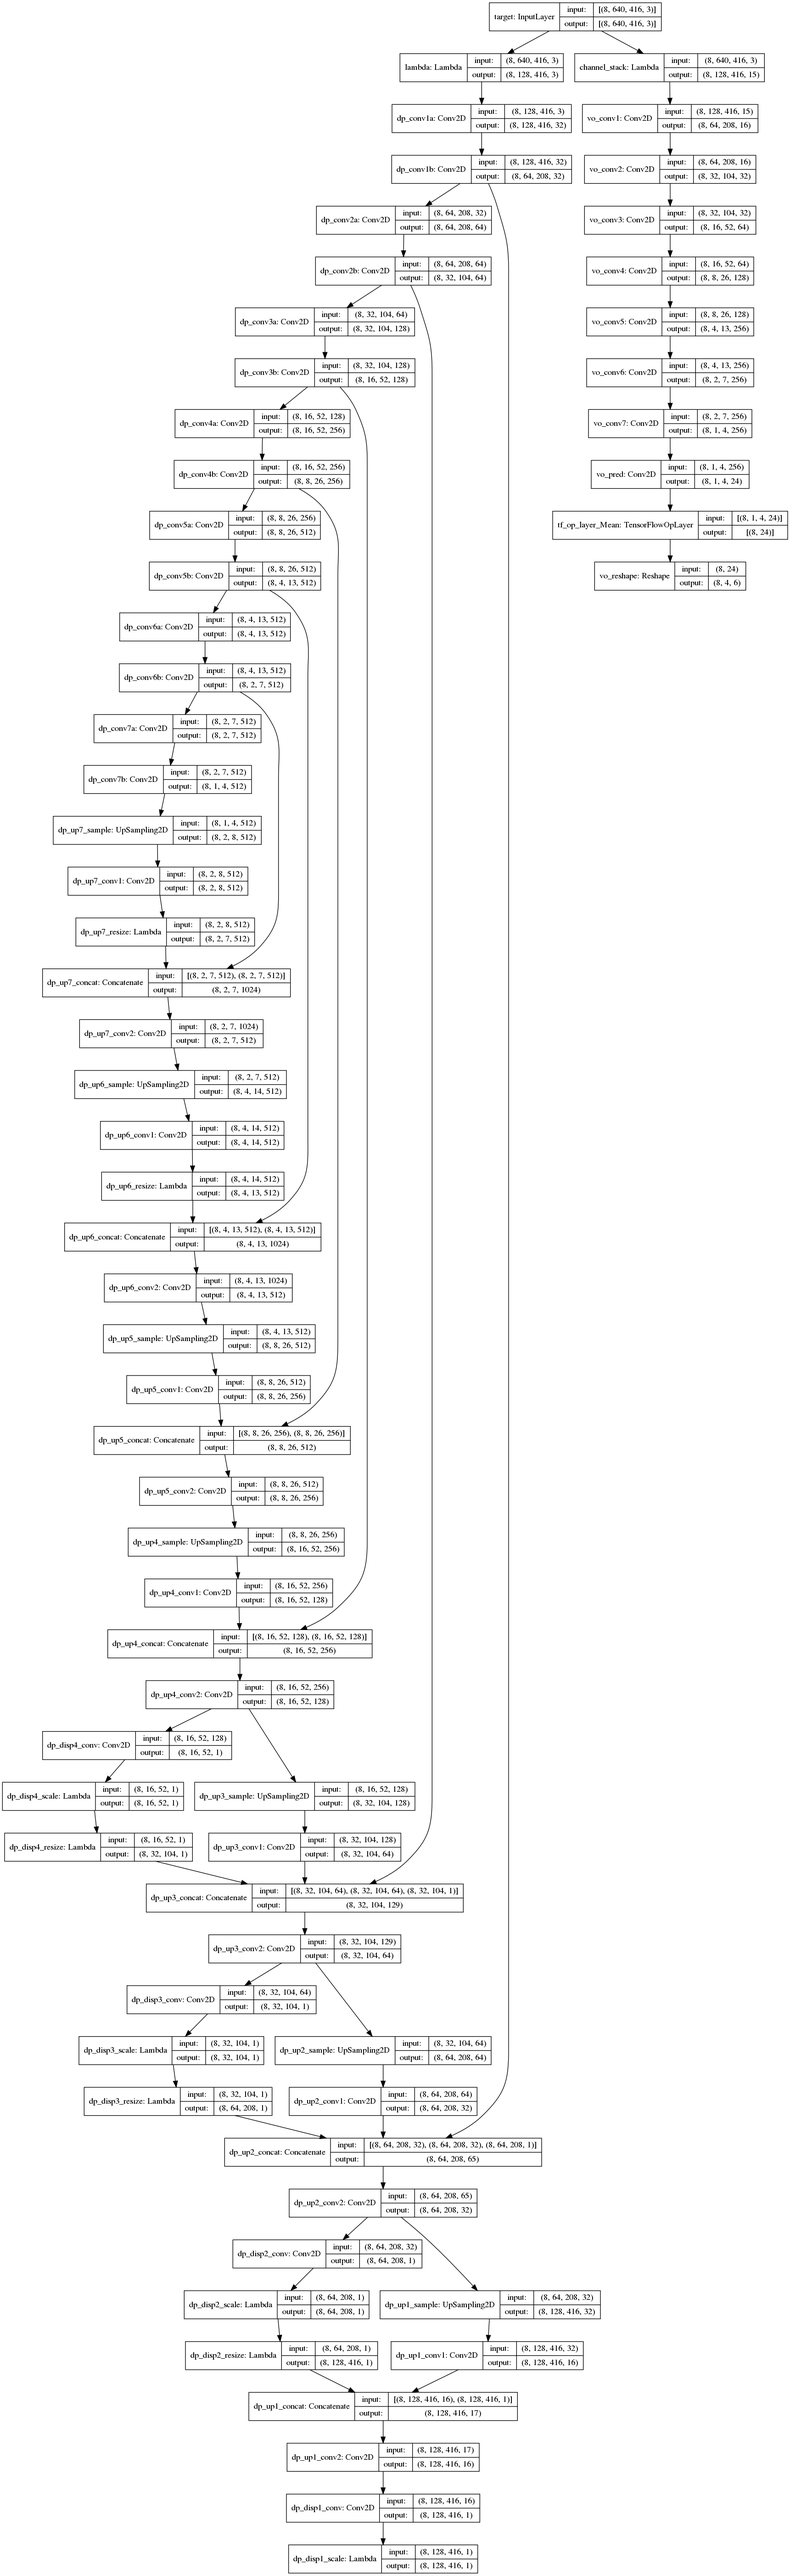
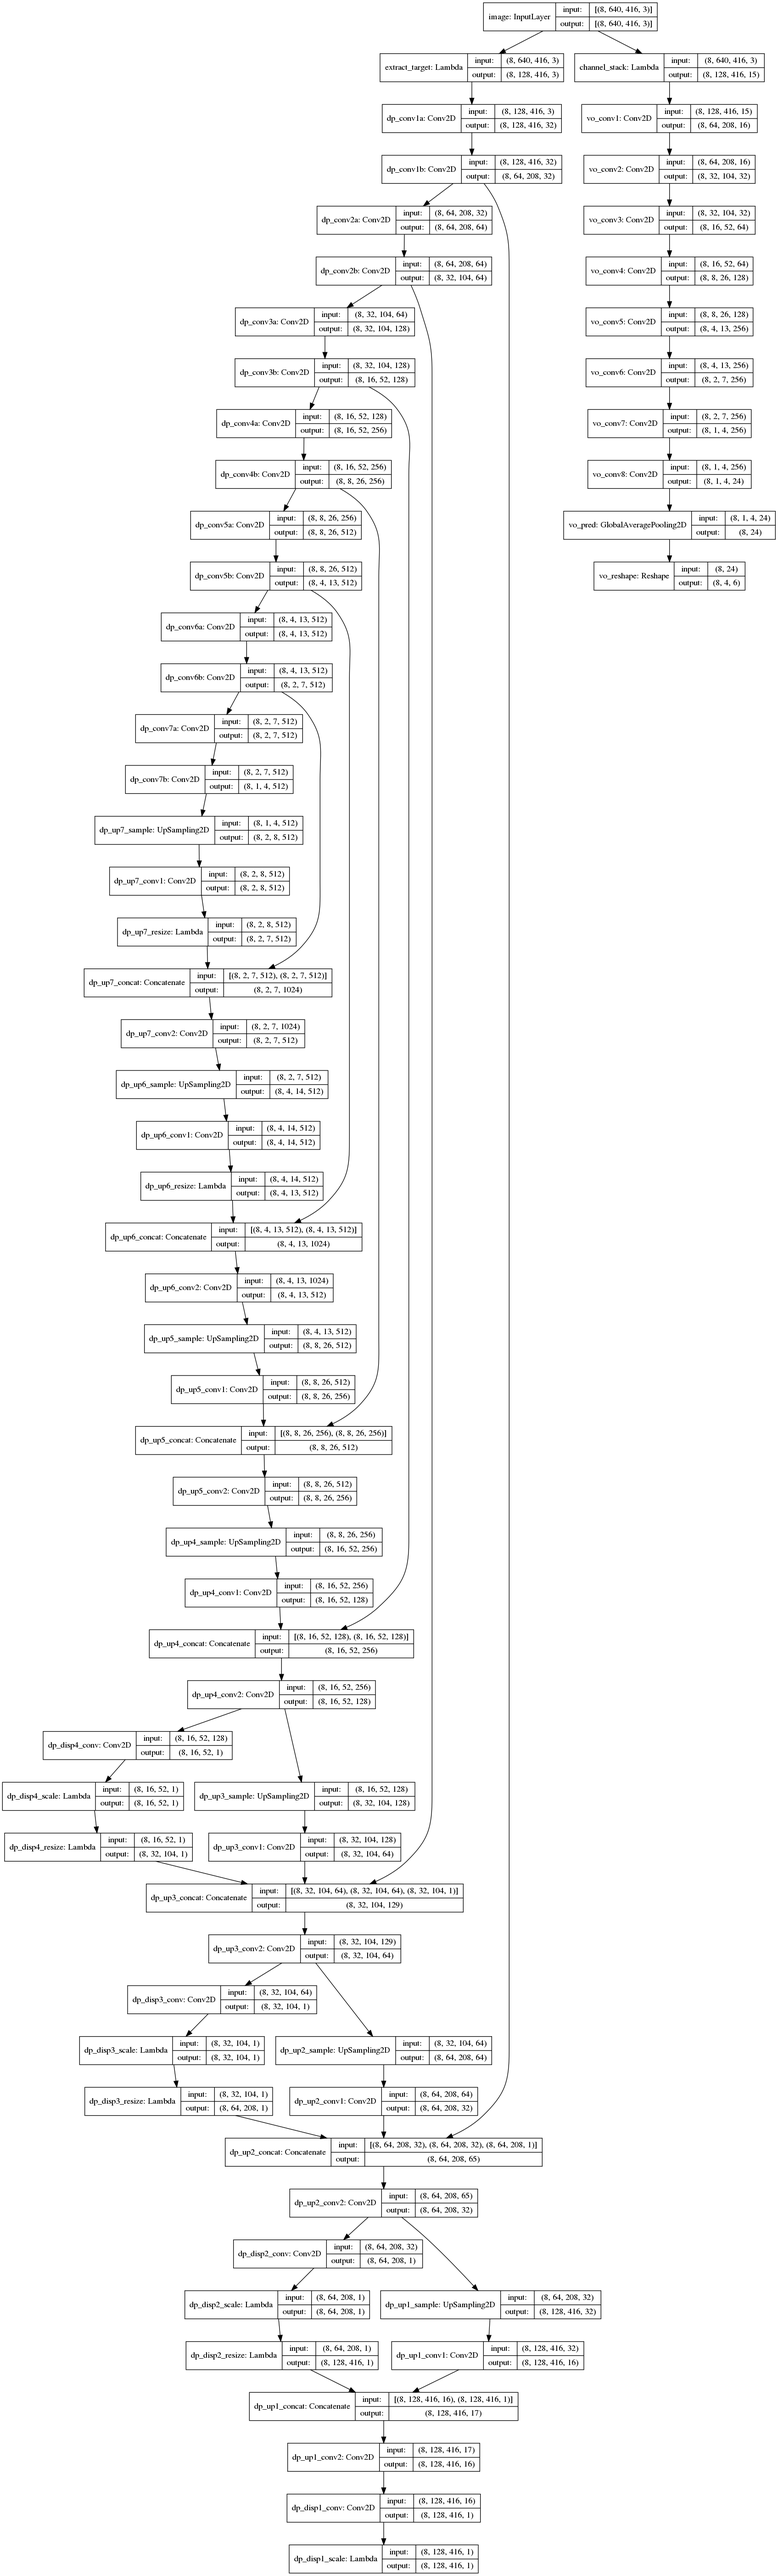
read write model weights

diff --git a/model/model_main.py b/model/model_main.py
@@ -30,28 +30,18 @@ class LM:
 
 
 def train(train_dirname, val_dirname, src_model, dst_model):
-    gpus = tf.config.experimental.list_physical_devices('GPU')
-    if gpus:
-        try:
-            # Currently, memory growth needs to be the same across GPUs
-            for gpu in gpus:
-                tf.config.experimental.set_memory_growth(gpu, True)
-            logical_gpus = tf.config.experimental.list_logical_devices('GPU')
-            print(len(gpus), "Physical GPUs,", len(logical_gpus), "Logical GPUs")
-        except RuntimeError as e:
-            # Memory growth must be set before GPUs have been initialized
-            print(e)
+    set_gpu_config()
 
-    stacked_image_shape = (opts.IM_HEIGHT*opts.SNIPPET_LEN, opts.IM_WIDTH, 3)
-    instrinsic_shape = (3, 3)
-    depth_shape = (opts.IM_HEIGHT, opts.IM_WIDTH, 1)
-    model_pred, model_train = create_models(stacked_image_shape, instrinsic_shape, depth_shape)
+    # model_train = None
+    # if model_train is None:
+    model_pred, model_train = create_models()
 
     if src_model:
         src_model_path = op.join(opts.DATAPATH_CKP, src_model)
         if op.isfile(src_model_path):
-            print("load weights", src_model_path)
+            print("===== load model", src_model_path)
             model_train.load_weights(src_model_path)
+            # model_train = tf.keras.models.load_model()
 
     optimizer = tf.keras.optimizers.Adam(learning_rate=0.0002)
     losses = {"loss_out": LM.loss_for_loss, "metric_out": LM.loss_for_metric}
@@ -68,13 +58,15 @@ def train(train_dirname, val_dirname, src_model, dst_model):
     val_steps = np.clip(count_steps(train_dirname)/2, 0, 100).astype(np.int32)
 
     history = model_train.fit(dataset_train, epochs=opts.EPOCHS, callbacks=callbacks,
-                              validation_data=dataset_val, steps_per_epoch=20,
-                              validation_steps=val_steps, validation_freq=2)
+                              validation_data=dataset_val, steps_per_epoch=10,
+                              validation_steps=val_steps)
+
     if dst_model:
         dst_model_path = op.join(opts.DATAPATH_CKP, dst_model)
         os.makedirs(op.dirname(dst_model_path), exist_ok=True)
         model_train.save_weights(dst_model_path)
 
+    print("history", history.history.keys())
     # histfile = op.join(model_path, "history.txt")
     # histdata = np.array([history.history["loss"], history.history["acc"],
     #                      history.history["val_loss"], history.history["val_acc"]])
@@ -82,23 +74,38 @@ def train(train_dirname, val_dirname, src_model, dst_model):
     # print(f"[history]", history)
 
 
+def set_gpu_config():
+    gpus = tf.config.experimental.list_physical_devices('GPU')
+    if gpus:
+        try:
+            # Currently, memory growth needs to be the same across GPUs
+            for gpu in gpus:
+                tf.config.experimental.set_memory_growth(gpu, True)
+            logical_gpus = tf.config.experimental.list_logical_devices('GPU')
+            print(len(gpus), "Physical GPUs,", len(logical_gpus), "Logical GPUs")
+        except RuntimeError as e:
+            # Memory growth must be set before GPUs have been initialized
+            print(e)
+
+
 def get_callbacks(model_dir):
     if model_dir is None:
         nowtime = datetime.datetime.now()
         nowtime = nowtime.strftime("%m%d_%H%M%S")
-        model_path = op.join(opts.DATAPATH_CKP, nowtime, "model-{epoch:02d}-{val_loss:.2f}.hdf5")
+        model_path = op.join(opts.DATAPATH_CKP, nowtime, "model-{epoch:02d}-{val_loss:.2f}.h5")
         log_dir = op.join(opts.DATAPATH_LOG, nowtime)
     else:
-        model_path = op.join(opts.DATAPATH_CKP, model_dir, "model-{epoch:02d}-{val_loss:.2f}.hdf5")
+        model_path = op.join(opts.DATAPATH_CKP, model_dir, "model-{epoch:02d}-{val_loss:.2f}.h5")
         log_dir = op.join(opts.DATAPATH_LOG, model_dir)
 
     callbacks = [
-        # tf.keras.callbacks.ModelCheckpoint(
-        #     filepath=model_path,
-        #     monitor="val_loss",
-        #     save_best_only=True,
-        #     save_freq="epoch"
-        # ),
+        tf.keras.callbacks.ModelCheckpoint(
+            filepath=model_path,
+            monitor="val_loss",
+            save_best_only=True,
+            save_freq="epoch",
+            save_weights_only=True
+        ),
         tf.keras.callbacks.TensorBoard(
             log_dir=log_dir
         ),
@@ -124,4 +131,4 @@ def evaluate():
 
 
 if __name__ == "__main__":
-    train("kitti_raw_train", "kitti_raw_test", "vode_model/weights1.h5", "vode_model/weights1.h5")
+    train("kitti_raw_train", "kitti_raw_test", "vode_model/model1.h5", "vode_model/model1.h5")

diff --git a/model/model_builder.py b/model/model_builder.py
@@ -10,10 +10,14 @@ from model.synthesize_batch import synthesize_batch_multi_scale
 import model.loss_and_metric as lm
 
 
-def create_models(image_shape, intrin_shape, depth_shape):
+def create_models():
+    image_shape = (opts.IM_HEIGHT * opts.SNIPPET_LEN, opts.IM_WIDTH, 3)
+    intrin_shape = (3, 3)
+    depth_shape = (opts.IM_HEIGHT, opts.IM_WIDTH, 1)
+
     # prepare input tensors
     stacked_image = layers.Input(shape=image_shape, batch_size=opts.BATCH_SIZE, name="image")
-    target_image = layers.Lambda(lambda image: extract_target(image))(stacked_image)
+    target_image = layers.Lambda(lambda image: extract_target(image), name="extract_target")(stacked_image)
     intrinsic = layers.Input(shape=intrin_shape, batch_size=opts.BATCH_SIZE, name="intrinsic")
     if depth_shape is None:
         depth_gt = None
@@ -68,7 +72,7 @@ def create_train_model(model_pred, target_image, intrinsic, depth_gt):
     stacked_image = model_pred.input["image"]
     pred_disp_ms = model_pred.output["disp_ms"]
     pred_pose = model_pred.output["pose"]
-    pred_depth_ms = [1./disp for disp in pred_disp_ms]
+    pred_depth_ms = disp_to_depth(pred_disp_ms)
     target_ms = multi_scale_like(target_image, pred_disp_ms)
 
     synth_target_ms = synthesize_batch_multi_scale(stacked_image, intrinsic,
@@ -88,6 +92,14 @@ def create_train_model(model_pred, target_image, intrinsic, depth_gt):
     return model_train
 
 
+def disp_to_depth(disp_ms):
+    target_ms = []
+    for i, disp in enumerate(disp_ms):
+        target = layers.Lambda(lambda dis: 1./dis, name=f"todepth_{i}")(disp)
+        target_ms.append(target)
+    return target_ms
+
+
 def multi_scale_like(image, disp_ms):
     """
     :param image: [batch, height, width, 3]
@@ -95,9 +107,10 @@ def multi_scale_like(image, disp_ms):
     :return: image_ms: list of [batch, height/scale, width/scale, 3]
     """
     image_ms = []
-    for disp in disp_ms:
+    for i, disp in enumerate(disp_ms):
         batch, height_sc, width_sc, _ = disp.get_shape().as_list()
-        image_sc = tf.image.resize(image, size=(height_sc, width_sc), method="bilinear")
+        image_sc = layers.Lambda(lambda img: tf.image.resize(img, size=(height_sc, width_sc), method="bilinear"),
+                                 name=f"target_resize_{i}")(image)
         image_ms.append(image_sc)
     return image_ms
 
@@ -196,8 +209,8 @@ def build_visual_odom_layers(stacked_image):
     conv7 = convolution(conv6, 256, 3, 2, "vo_conv7")
 
     poses = tf.keras.layers.Conv2D(num_sources*6, 1, strides=1, padding="same",
-                                   activation=None, name="vo_pred")(conv7)
-    poses = tf.keras.backend.mean(poses, axis=(1, 2))
+                                   activation=None, name="vo_conv8")(conv7)
+    poses = tf.keras.layers.GlobalAveragePooling2D("channels_last", name="vo_pred")(poses)
     poses = tf.keras.layers.Reshape((num_sources, 6), name="vo_reshape")(poses)
     return poses
 
@@ -237,9 +250,7 @@ def test_restack_on_channels():
 
 
 def test_create_models():
-    image_shape = (opts.IM_HEIGHT*opts.SNIPPET_LEN, opts.IM_WIDTH, 3)
-    intrin_shape = (3, 3)
-    model_pred, model_train = create_models(image_shape, intrin_shape)
+    model_pred, model_train = create_models()
     model_pred.summary()
     tf.keras.utils.plot_model(model_pred, to_file="model_pred.png", show_shapes=True, show_layer_names=True)
     model_train.summary()
@@ -247,9 +258,18 @@ def test_create_models():
     print("!!! test_create_models passed")
 
 
+def test_load_model():
+    model_path = opts.DATAPATH_CKP + "/vode_model/model1.hdf5"
+    print("model path", model_path)
+    if op.isfile(model_path):
+        model = tf.keras.models.load_model(model_path)
+        model.summary()
+
+
 def test():
-    test_create_models()
-    test_restack_on_channels()
+    # test_create_models()
+    # test_restack_on_channels()
+    test_load_model()
 
 
 if __name__ == "__main__":

diff --git a/model/synthesize_batch.py b/model/synthesize_batch.py
@@ -34,6 +34,8 @@ def synthesize_batch_multi_scale(stacked_image, intrinsic, pred_depth_ms, pred_p
         # reorganize source images: [batch, 4, height, width, 3]
         source_images_sc = layers.Lambda(lambda image: reshape_source_images(image, scale),
                                          name=f"reorder_source_sc{scale}")(stacked_image)
+        # print(f"[synthesize_batch_multi_scale] {scale}, source_images_sc {source_images_sc.get_shape()}, "
+        #       f"depth_sc {depth_sc.get_shape()}, poses_matr {poses_matr.get_shape()}, ")
         recon_image_sc = synthesize_batch_view(source_images_sc, depth_sc, poses_matr,
                                                intrinsic_sc, suffix=f"sc{scale}")
         recon_images.append(recon_image_sc)
@@ -84,7 +86,7 @@ def synthesize_batch_view(src_image, tgt_depth, pose, intrinsic, suffix):
                                      name="warp_pixel_"+suffix)\
                                     ([tgt_depth, pose, intrinsic])
     tgt_image_synthesized = layers.Lambda(lambda inputs:
-                                          reconstruct_bilinear_interp_layer(inputs),
+                                          reconstruct_bilinear_interp(inputs[0], inputs[1], inputs[2]),
                                           name="recon_interp_"+suffix)\
                                          ([src_pixel_coords, src_image, tgt_depth])
     return tgt_image_synthesized
@@ -170,11 +172,6 @@ def cam2pixel(cam_coords, intrinsic):
     pixel_scales = pixel_coords[:, :, 2:3, :]
     pixel_coords = pixel_coords / (pixel_scales + 1e-10)
     return pixel_coords
-
-
-def reconstruct_bilinear_interp_layer(inputs):
-    pixel_coords, image, depth = inputs
-    return reconstruct_bilinear_interp(pixel_coords, image, depth)
 
 
 def reconstruct_bilinear_interp(pixel_coords, image, depth):
